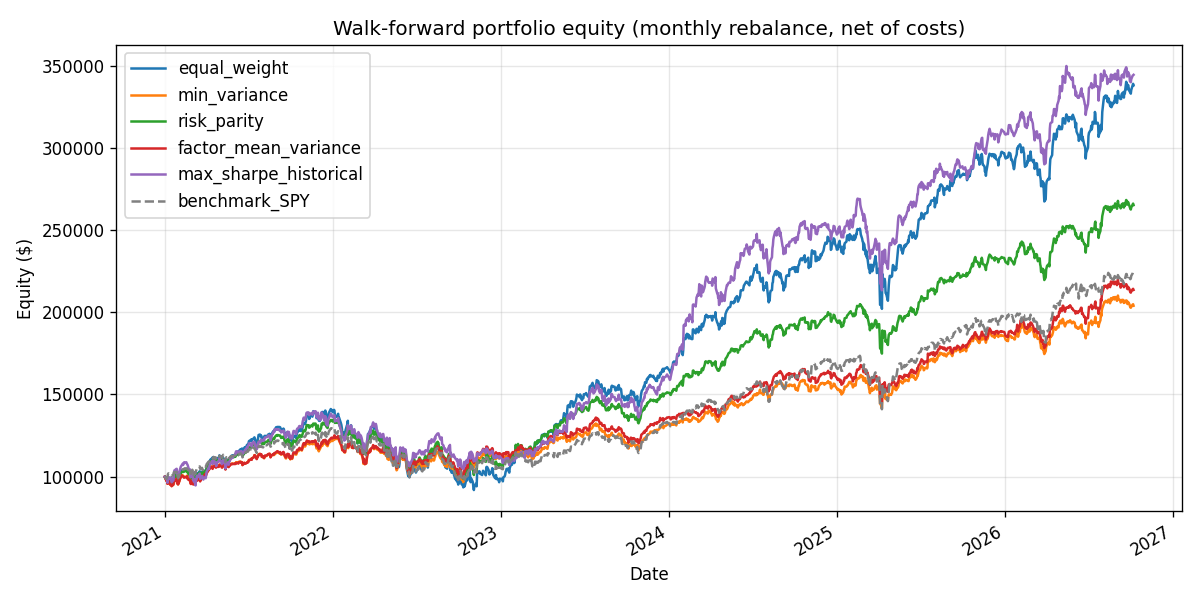
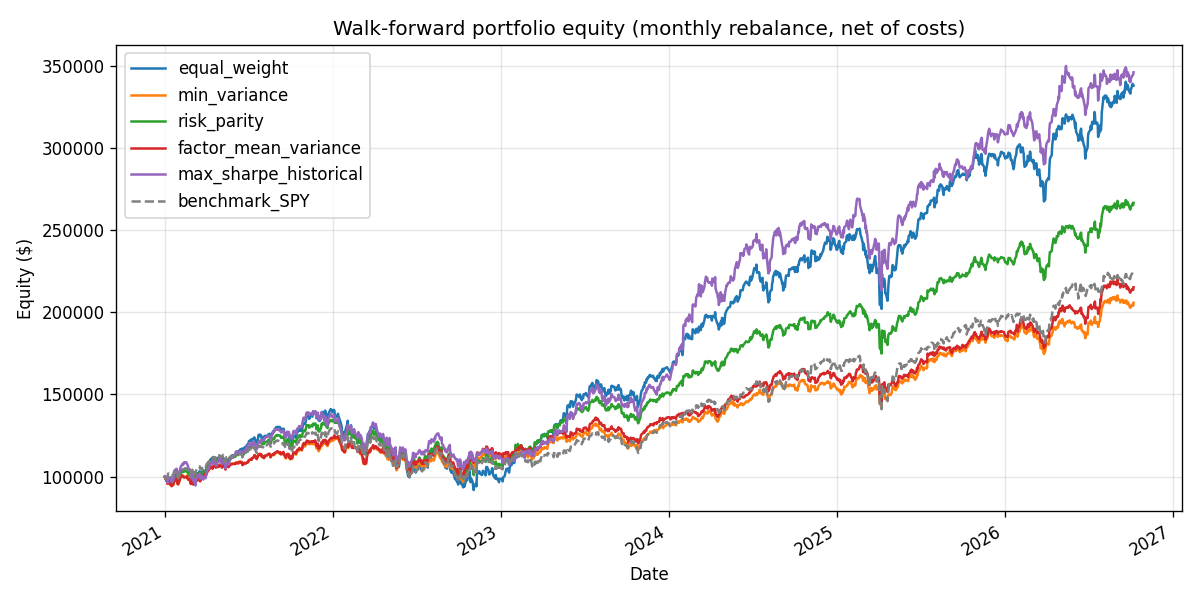
Refresh reports and README after engine cost fix
Re-run the backtest, factor and portfolio reports on data through
2026-10-08 so every README table comes from the same snapshot. Dual-MA
on SPY now shows 27 trades and single-charged costs; document the
adjusted-price caveat for incremental fetches.

diff --git a/README.md b/README.md
@@ -86,6 +86,7 @@ pytest -v
 ### Limitations (document honestly in interviews)
 
 - Yahoo Finance data may have gaps and is not adjusted for all corporate actions consistently
+- Prices are split/dividend-adjusted, but incremental fetches don't re-adjust older bars when a new dividend is paid, so do a full re-fetch periodically
 - No survivorship-bias-free index membership history in v1
 - Approximate trading-day missing % (weekends/holidays not fully modeled)
 
@@ -94,7 +95,8 @@ pytest -v
 **Resume hook:** *Implemented an event-driven backtester with transaction costs.*
 
 - Strategies: `DualMovingAverageCrossover`, `MeanReversionPair` (KO/PEP)
-- Costs: configurable commission + slippage (default 5 bps each)
+- Costs: slippage moves the fill price and commission is charged once on notional (default 5 bps each)
+- Trades only when the signal changes; longs are sized net of costs so cash never goes negative
 - Metrics: total return, Sharpe, max drawdown, win rate, turnover
 - Benchmark: buy-and-hold comparison
 - No lookahead: signals shifted by one bar before execution
@@ -113,18 +115,19 @@ Outputs: `reports/backtest_results.json`, `reports/equity_curve.png`
 
 ## Results (live data, dual-MA 20/50 on SPY)
 
-Run on Yahoo Finance daily bars, Jan 2020 – Oct 2026 (`quant-fetch`):
+Run on Yahoo Finance daily bars (split- and dividend-adjusted), Jan 2, 2020 – Oct 8, 2026 (`quant-fetch`):
 
 | Metric | Strategy | Buy & Hold |
 |--------|----------|------------|
-| Total return | 78.36% | 163.11% |
-| Sharpe (ann.) | 0.77 | 0.82 |
-| Max drawdown | -28.93% | -33.72% |
-| Trades | 83 | — |
+| Total return | 82.47% | 162.00% |
+| Sharpe (ann.) | 0.80 | 0.81 |
+| Max drawdown | -28.08% | -33.72% |
+| Trades | 27 | — |
+| Costs paid | $3,668 | — |
 
 The crossover cuts the drawdown a little but gives up about half of the buy-and-hold return after costs. That's a typical result for trend filters on a strongly trending index. *Past performance does not guarantee future results.*
 
-KO/PEP mean reversion over the same period (20-day z-score, enter at ±2, exit at ±0.5) loses money: -42.5% total return, Sharpe -0.75, 517 trades. The raw price-difference spread isn't stable enough to fade, and the round trips get eaten by double-leg costs.
+KO/PEP mean reversion over the same period (20-day z-score, enter at ±2, exit at ±0.5) loses money: -22.7% total return, Sharpe -0.31, 125 trades, against +49.3% for simply holding the long-KO/short-PEP spread. The raw price-difference spread isn't stable enough to fade, and the round trips get eaten by double-leg costs.
 
 ![Equity curve](reports/equity_curve.png)
 
@@ -145,7 +148,7 @@ quant-factors --exclude SPY --horizon 21 --quantiles 3
 
 Outputs: `reports/factor_report.json`, `reports/factor_ic.png`
 
-### Results (9 large caps, 2020–2026, 21-day horizon)
+### Results (9 large caps, Jan 2020 – Oct 8, 2026, 21-day horizon)
 
 | Factor | IC mean | t-stat | Hit rate |
 |--------|---------|--------|----------|
@@ -179,16 +182,16 @@ quant-optimize --exclude SPY --max-weight 0.25 --cost-bps 10
 
 Outputs: `reports/portfolio_report.json` (walk-forward metrics, current weights, risk contributions), `reports/portfolio_equity.png`
 
-### Results (9 large caps, Jan 2021 – Oct 2026, net of costs)
+### Results (9 large caps, Jan 2021 – Oct 8, 2026, net of costs)
 
 | Allocator | Total return | Sharpe | Max DD | Avg turnover / rebalance | Effective holdings |
 |-----------|--------------|--------|--------|--------------------------|--------------------|
-| Equal weight | 238.6% | 1.14 | -34.9% | 5% | 9.0 |
-| Min variance | 104.2% | 0.94 | -22.0% | 9% | 4.9 |
-| Risk parity | 165.6% | 1.12 | -26.9% | 6% | 7.4 |
-| Factor mean-variance | 113.9% | 0.99 | -20.4% | 24% | 4.9 |
-| Max Sharpe (trailing mean) | 245.0% | 1.19 | -25.2% | 29% | 4.6 |
-| SPY buy & hold | 124.4% | 0.93 | -24.5% | — | — |
+| Equal weight | 238.4% | 1.13 | -34.9% | 5% | 9.0 |
+| Min variance | 106.1% | 0.95 | -22.0% | 9% | 4.9 |
+| Risk parity | 167.0% | 1.13 | -26.9% | 6% | 7.4 |
+| Factor mean-variance | 115.5% | 0.99 | -20.4% | 24% | 4.9 |
+| Max Sharpe (trailing mean) | 246.5% | 1.19 | -25.2% | 29% | 4.6 |
+| SPY buy & hold | 123.5% | 0.92 | -24.5% | — | — |
 
 What this shows:
 - Min variance and risk parity deliver what they promise: lower drawdowns than equal weight. They pay for it in return, because they tilt toward KO, PEP and JPM.
